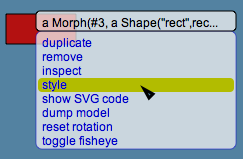
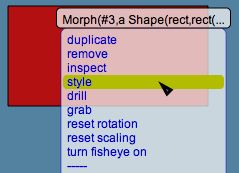
Various tutorial improvements. Revised the screen snapshots to use the latest menus.

diff --git a/source/tutorial/Tutorial08-Styles.html b/source/tutorial/Tutorial08-Styles.html
@@ -16,10 +16,11 @@
     <hr>
     The visual attributes of each object in the system can be 
     manipulated easily.  For every object, you can use its
-    popup menu to open a <i>style panel</i>.
+    popup menu to open a <i>style panel</i>.<br>
     The style panel allows you to change, e.g., 
     the border width, border color, fill color/pattern as
-    well as the opacity of the object.
+    well as the opacity of the object.<br>
+    For text objects, you can also change the font and font size.
     <p>    
         <img src="Tutorial08-Image1.PNG">
         <img src="Tutorial08-Image2.PNG">
@@ -36,7 +37,7 @@
     <b>Try it yourself!</b> Try changing the various visual attributes
     of the red rectangle using the style panel.  Try using different
     gradient colors as well as opacity levels.<br>
-    Note: Currently opacity works only with simple fills, and not with
+    Note: Currently opacity works only with simple fills, not with
     gradient fills or stipple patterns.
     <p>
     <iframe src="Tutorial08-Styles.svg" hspace="20" width="60%" height="60%" align="center" frameborder="10"></iframe>

diff --git a/source/tutorial/Tutorial09-Themes.html b/source/tutorial/Tutorial09-Themes.html
@@ -17,7 +17,7 @@
     The Lively Kernel system can support different user interface <i>themes</i>.
     Themes are collections of style settings that are applied automatically
     to all the applicable graphical objects in the system.<br>
-    You can change the user interface theme by choosing the "<i>choose display theme</i>"
+    You can change the user interface theme by choosing the "<i>choose display theme...</i>"
     operation from the popup menu of the world.<br> 
     <p>    
         <img src="Tutorial09-Image1.PNG">
@@ -31,7 +31,7 @@
     <p>
     <hr>
     <b>Try it yourself!</b> Try changing the display theme by invoking the popup
-    menu of the world and selecting the "<i>choose display theme</i>" operation.<br>
+    menu of the world and selecting the "<i>choose display theme...</i>" operation.<br>
     While trying out the different themes, also try the various controls (buttons,
     fields, sliders, etc.) included in the pane below.
     <p>

diff --git a/source/tutorial/Tutorial02-Handles.html b/source/tutorial/Tutorial02-Handles.html
@@ -17,7 +17,9 @@
     You can resize, rotate and reshape objects using <i>handles</i> that
     are displayed in the corners of each object.<br>
     Line objects can be reshaped by grabbing the <i>round handle</i>
-    in the middle of the line.
+    in the middle of the line.<br>
+    Handles have <i>balloon help</i> to summarize the behavior
+    of each handle.
     <p>
     <img src="Tutorial02-Image1.PNG">
     <img src="Tutorial02-Image2.PNG">

diff --git a/source/tutorial/Tutorial09-Themes.js b/source/tutorial/Tutorial09-Themes.js
@@ -14,6 +14,8 @@ Object.extend(TutorialMorph.prototype, {
     
         var widget = new WidgetTester();
         widget.openIn(world, pt(50, 50));
+        
+        world.addMorph(WindowMorph(Sun3DMorph(pt(550, 50).extent(pt(200, 200))), 'Sun 3D Logo'));
 
     },
 
